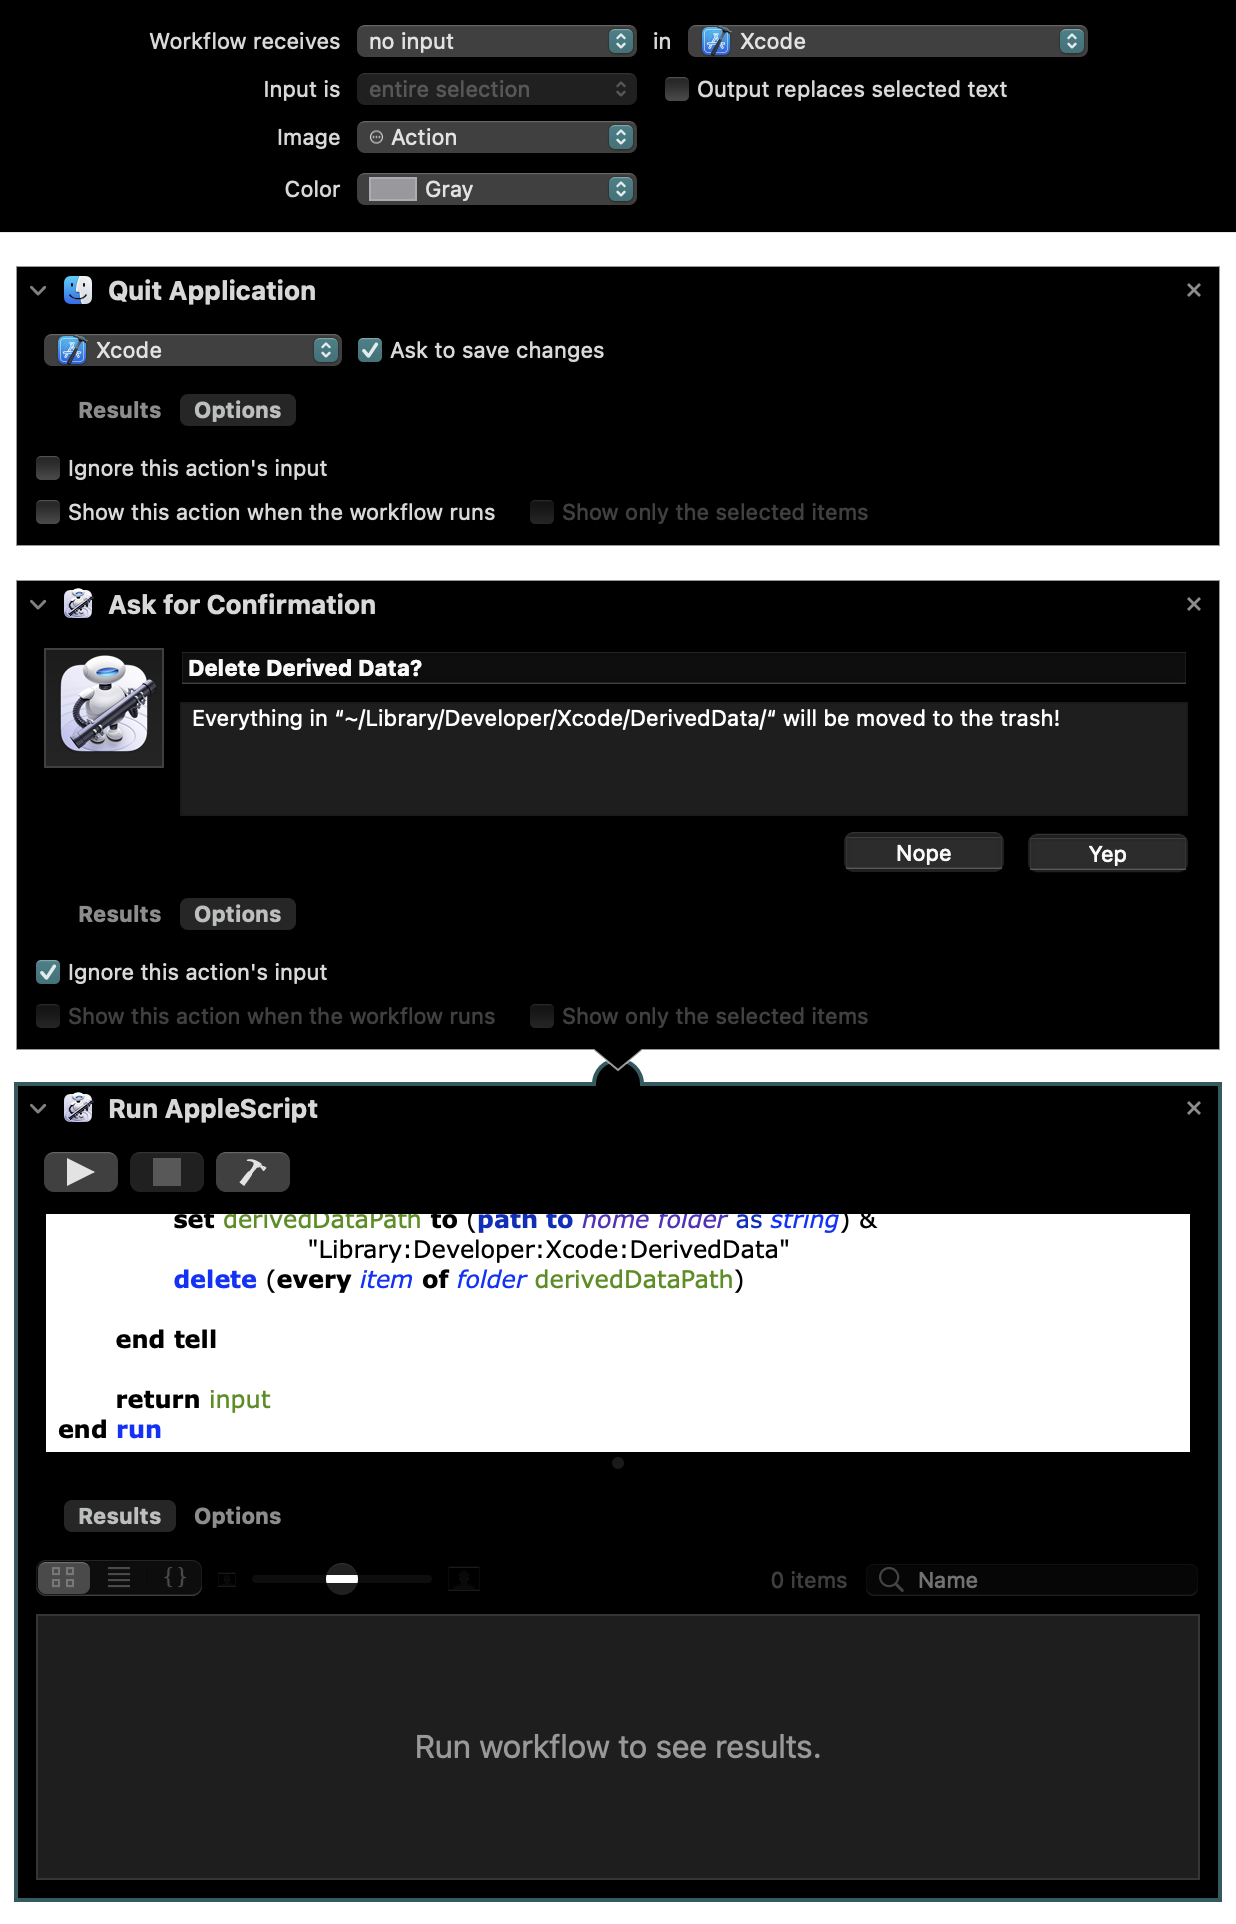
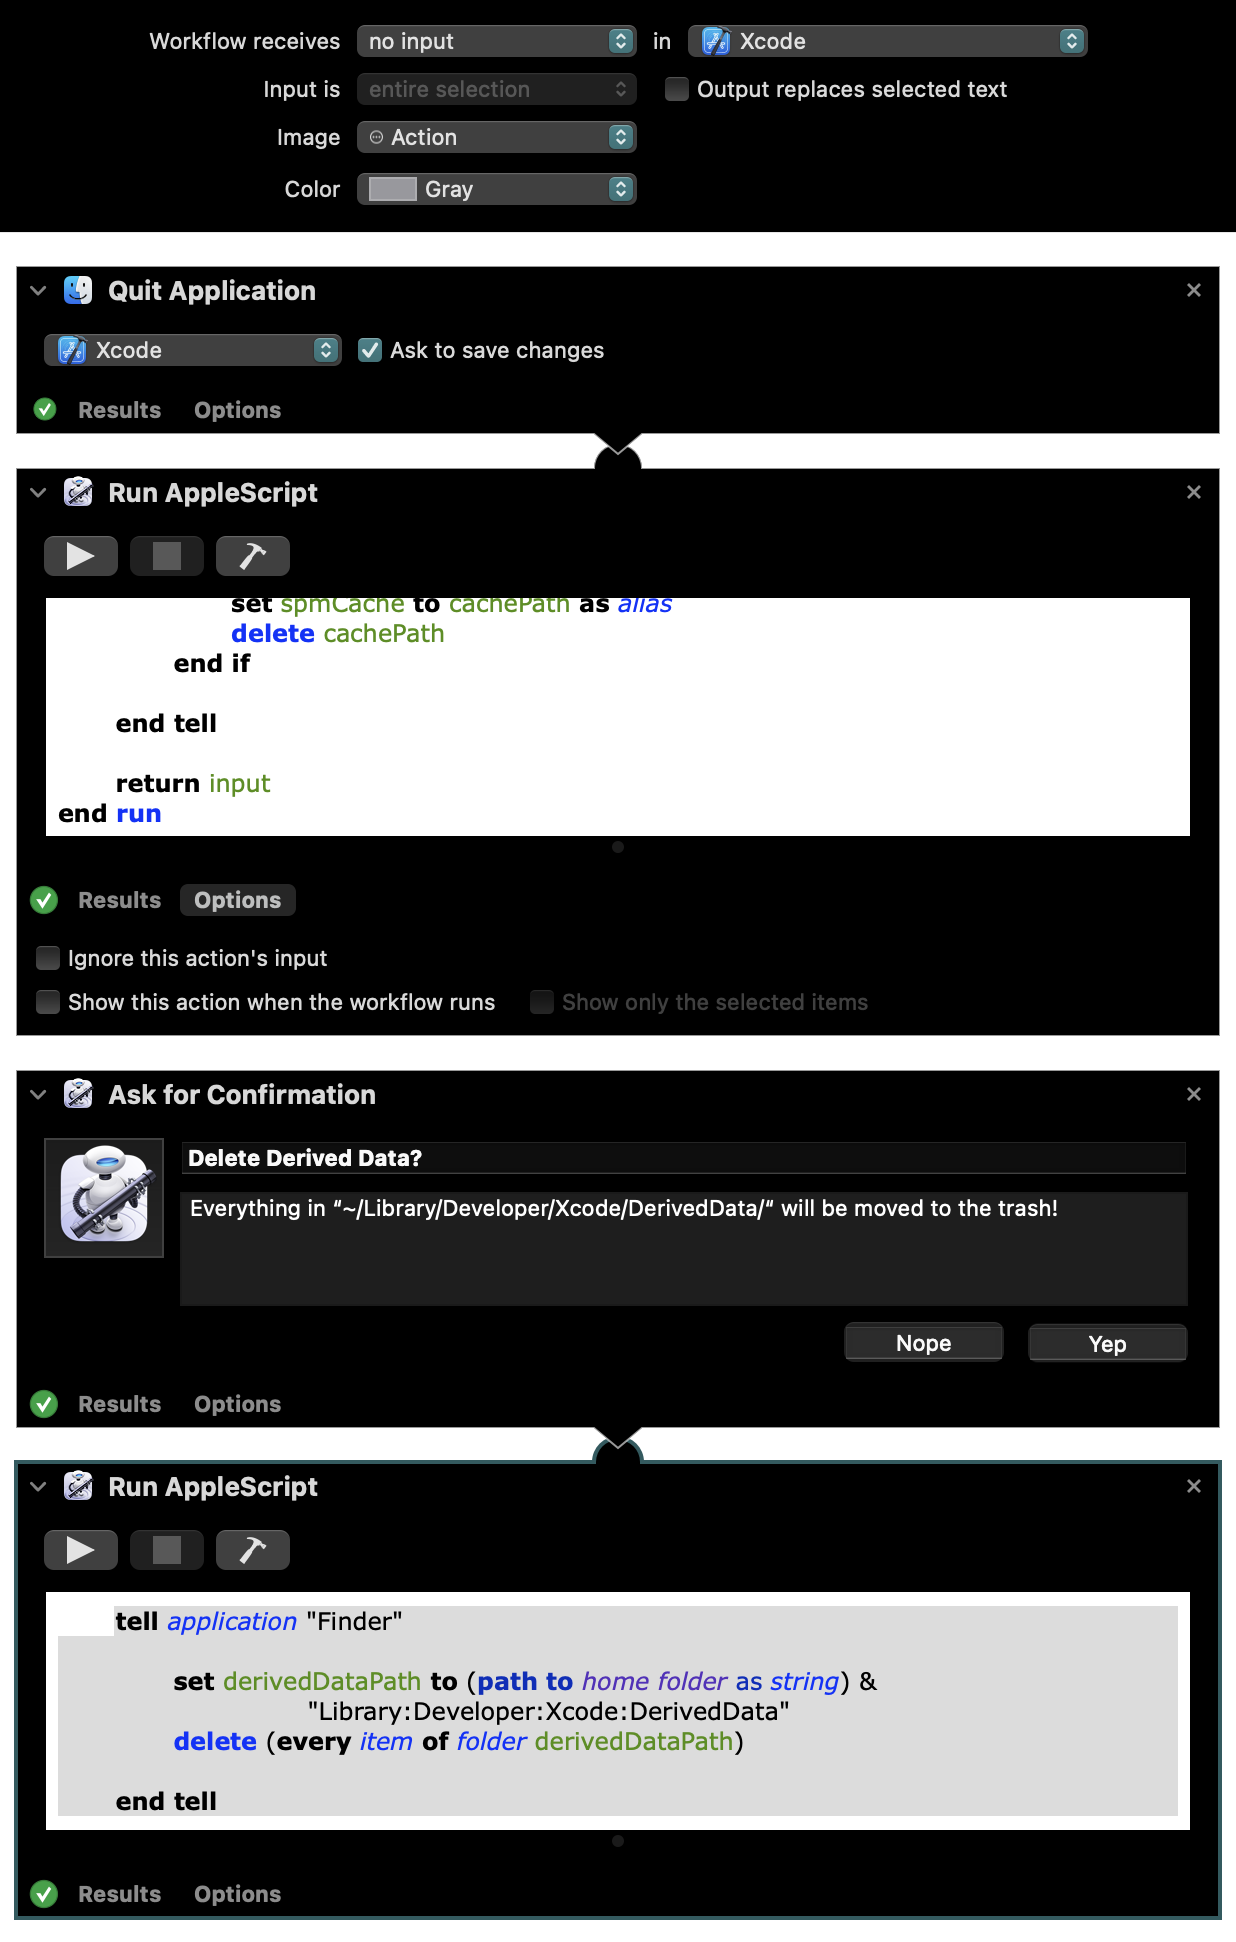
Nuke the local SPM cache
Adds a step to move the contents of `~/Library/Caches/org.swift.swiftpm` to the trash.

diff --git a/README.md b/README.md
@@ -1,8 +1,8 @@
 # Xplode
 
-A simple Mac OS service menu item to quit xcode and (optionally) move the contents of `~/Library/Developer/Xcode/DerivedData/` to the trash.
+A simple Mac OS service menu item to quit Xcode, purge your local SPM cache, and (optionally) move the contents of `~/Library/Developer/Xcode/DerivedData/` to the trash.
 
-Helpful to use before switching branches in git, so Xcode _might_ not puke all over itself if the project file has changes.
+Especially helpful to use before switching branches in git, so Xcode _might_ not puke all over itself if the project file has changes.
 
 ## Installation
 
@@ -14,11 +14,19 @@ In Xcode:
 
 `Xcode > Services > Xplode`
 
-It _should_ prompt before acutally moving things to the trash.
+It _should_ prompt before actually moving things to the trash.
 
 ## Caveats
 
-This assumes you haven't customized the location of `DerivedData`.
+This assumes you haven't customized the location of Derived Data.
+
+## SPM Cache
+
+From thew Xcode 12.5 release notes:
+
+> Swift Package Manager caches package dependencies on a per-user basis, which reduces the amount of network traffic and increases performance of dependency resolution for subsequent uses of the same package. If needed, you can disable cache use in xcodebuild by using the new -disablePackageRepositoryCache flag. (72204929)
+
+This cache appears to be located in `~/Library/Caches/org.swift.swiftpm/`. Xplode moves this to the trash without prompting, because it's just a cache.
 
 ## Customizing
 
